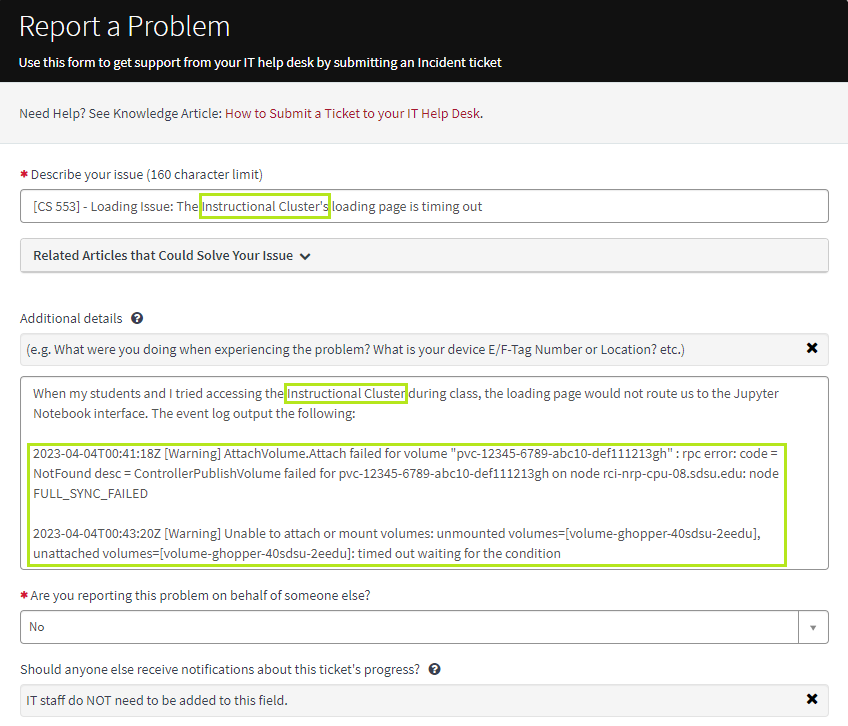
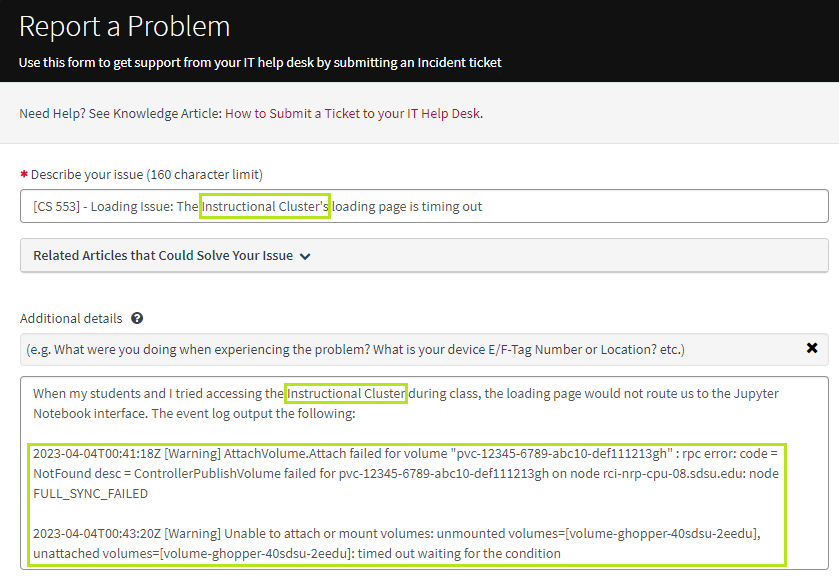
Created image for adding screenshots

Changed region(s): [[0.0, 0.0, 1.0, 0.9983], [0.9607, 0.3432, 0.9917, 0.3744]]

diff --git a/docs/instructionalcluster/instructors-reportingissues.md b/docs/instructionalcluster/instructors-reportingissues.md
@@ -12,12 +12,13 @@ permalink: /instructionalcluster/instructors/reportingissues
 First and last name, SDSUid (i.e. aztec@sdsu.edu), and ask the student to take the screenshot and/or copy and paste the event log details
 --->
 # ServiceNow Requests
-To submit a ServiceNow request for issues related to the Instructional Cluster, please follow the link to SDSU's [ServiceNow portal](https://sdsu.service-now.com/sp), click on **Report a Problem**, and provide a detailed description that includes the keyword *Instructional Cluster* within the description field.<br><br>
-
+To submit a ServiceNow request for issues related to the Instructional Cluster, please follow the link to SDSU's <a href="https://sdsu.service-now.com/sp" target="_blank">ServiceNow portal</a>, click on **Report a Problem**, and provide a detailed description that includes the keyword *Instructional Cluster* within the description field.<br><br>
+<a href="" target="_blank"></a>
 Always provide a relevant screenshot of the issue when possible ([example](#screenshot-ex)).<br><br>
 
 ![Report a Problem](/images/instructionalcluster/instructors-reportingissues2.png)<br><br>
-![Description Field](/images/instructionalcluster/instructors-reportingissues3.png)<br><br>
+![Description Field](/images/instructionalcluster/instructors-reportingissues3.png)
+![Add Attachments](/images/instructionalcluster/instructors-reportingissues4.png)<br><br>
 
 # Submitting Emails
 
